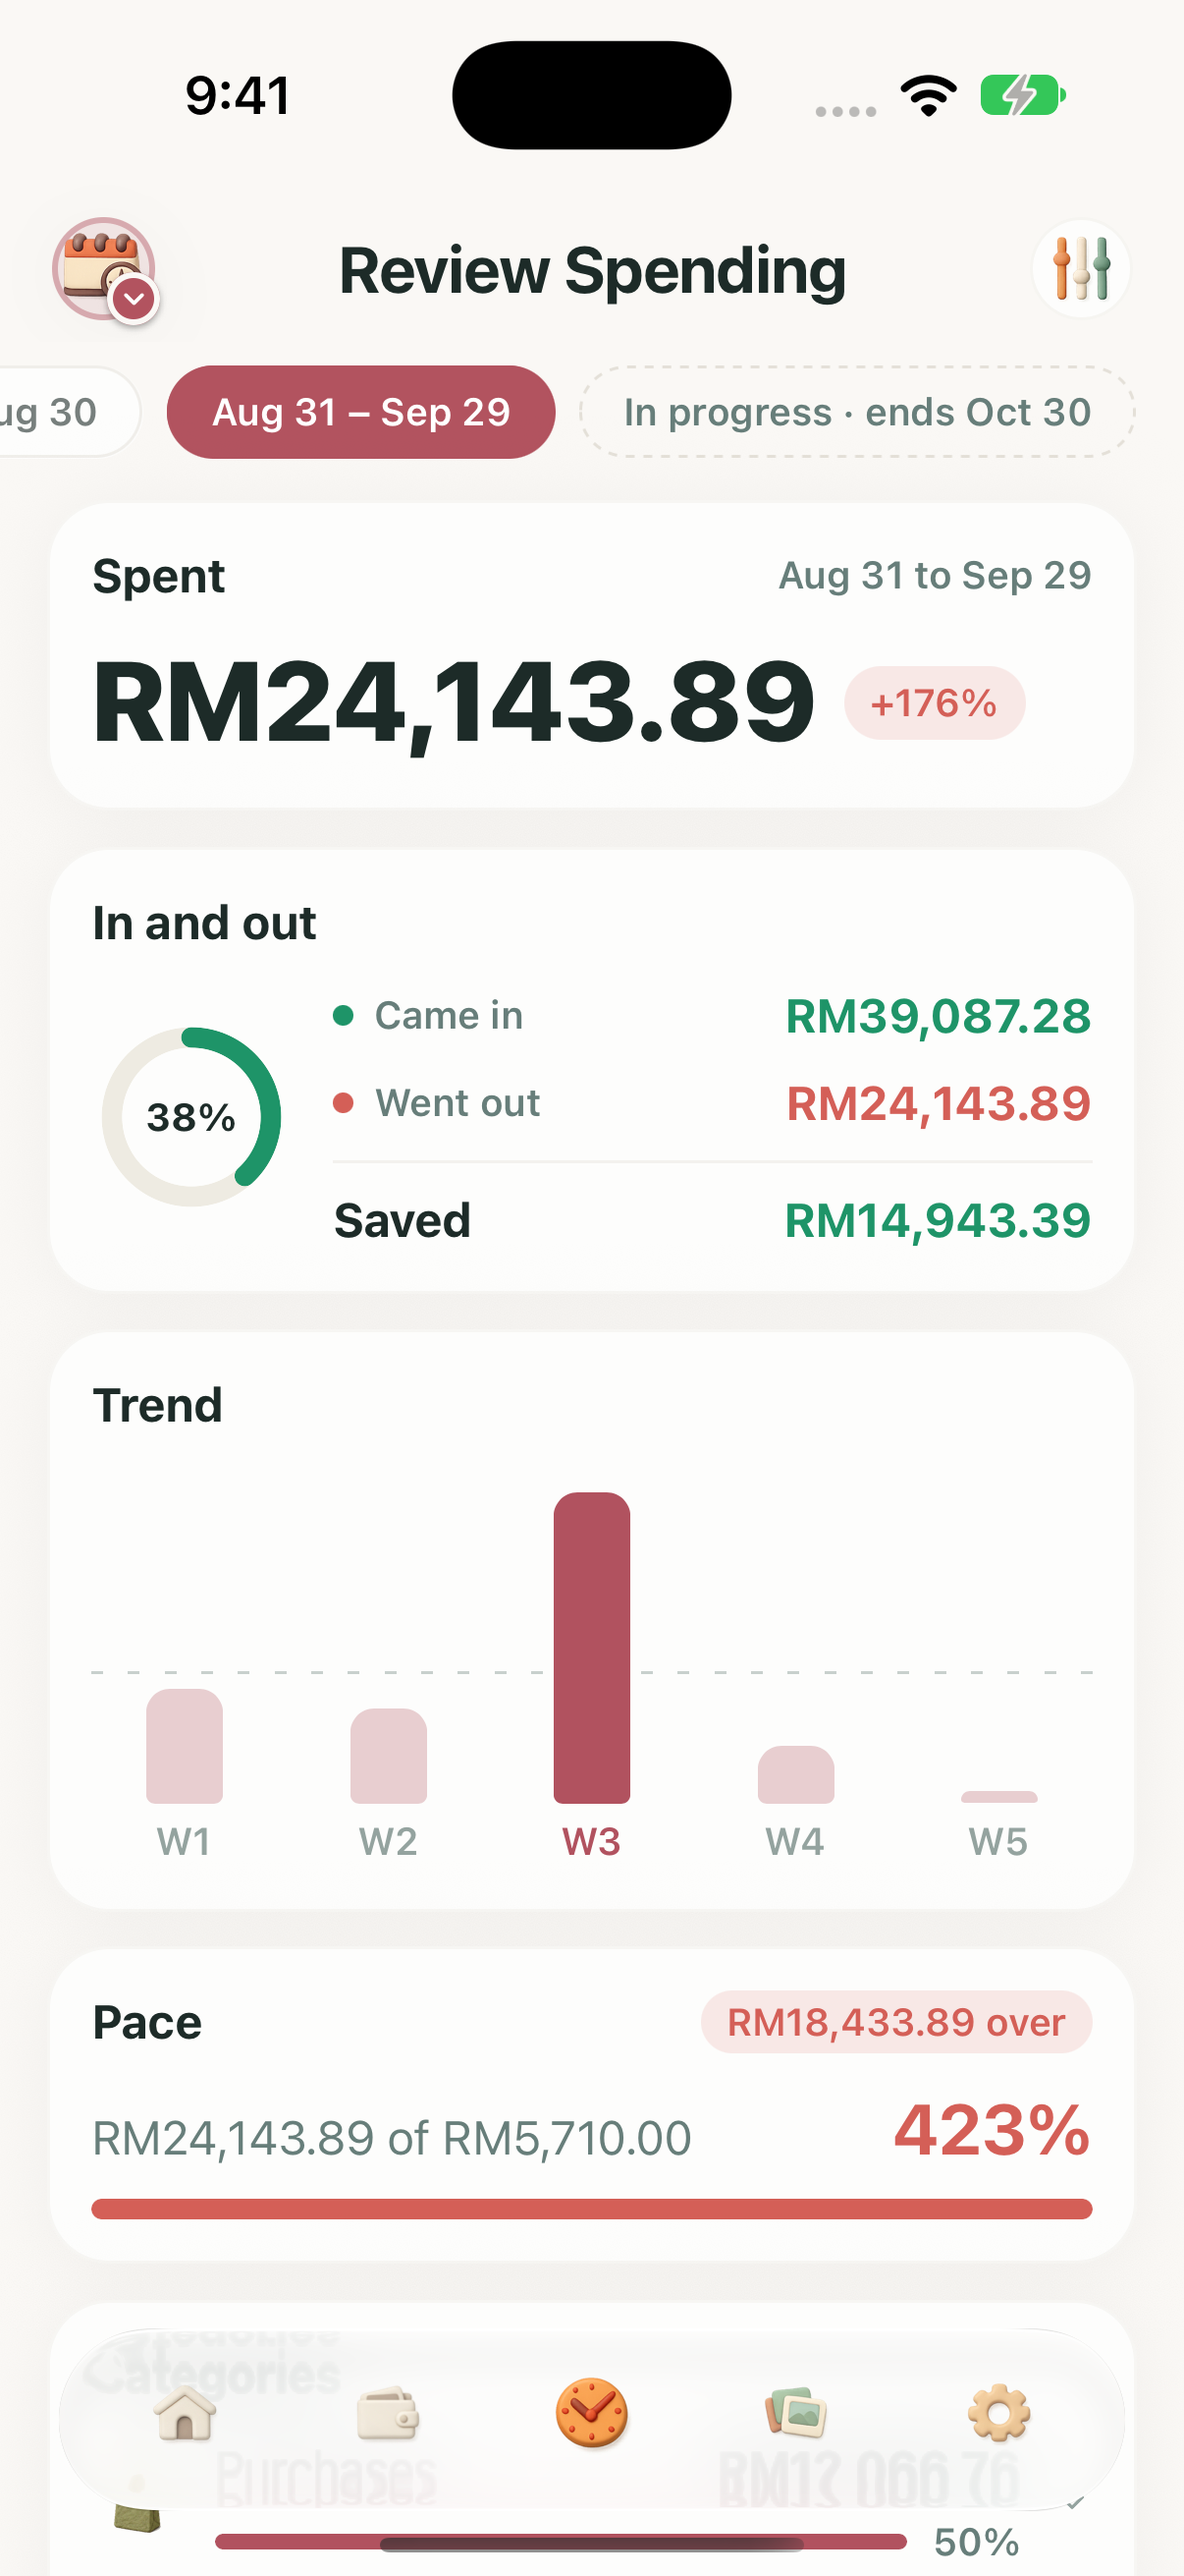
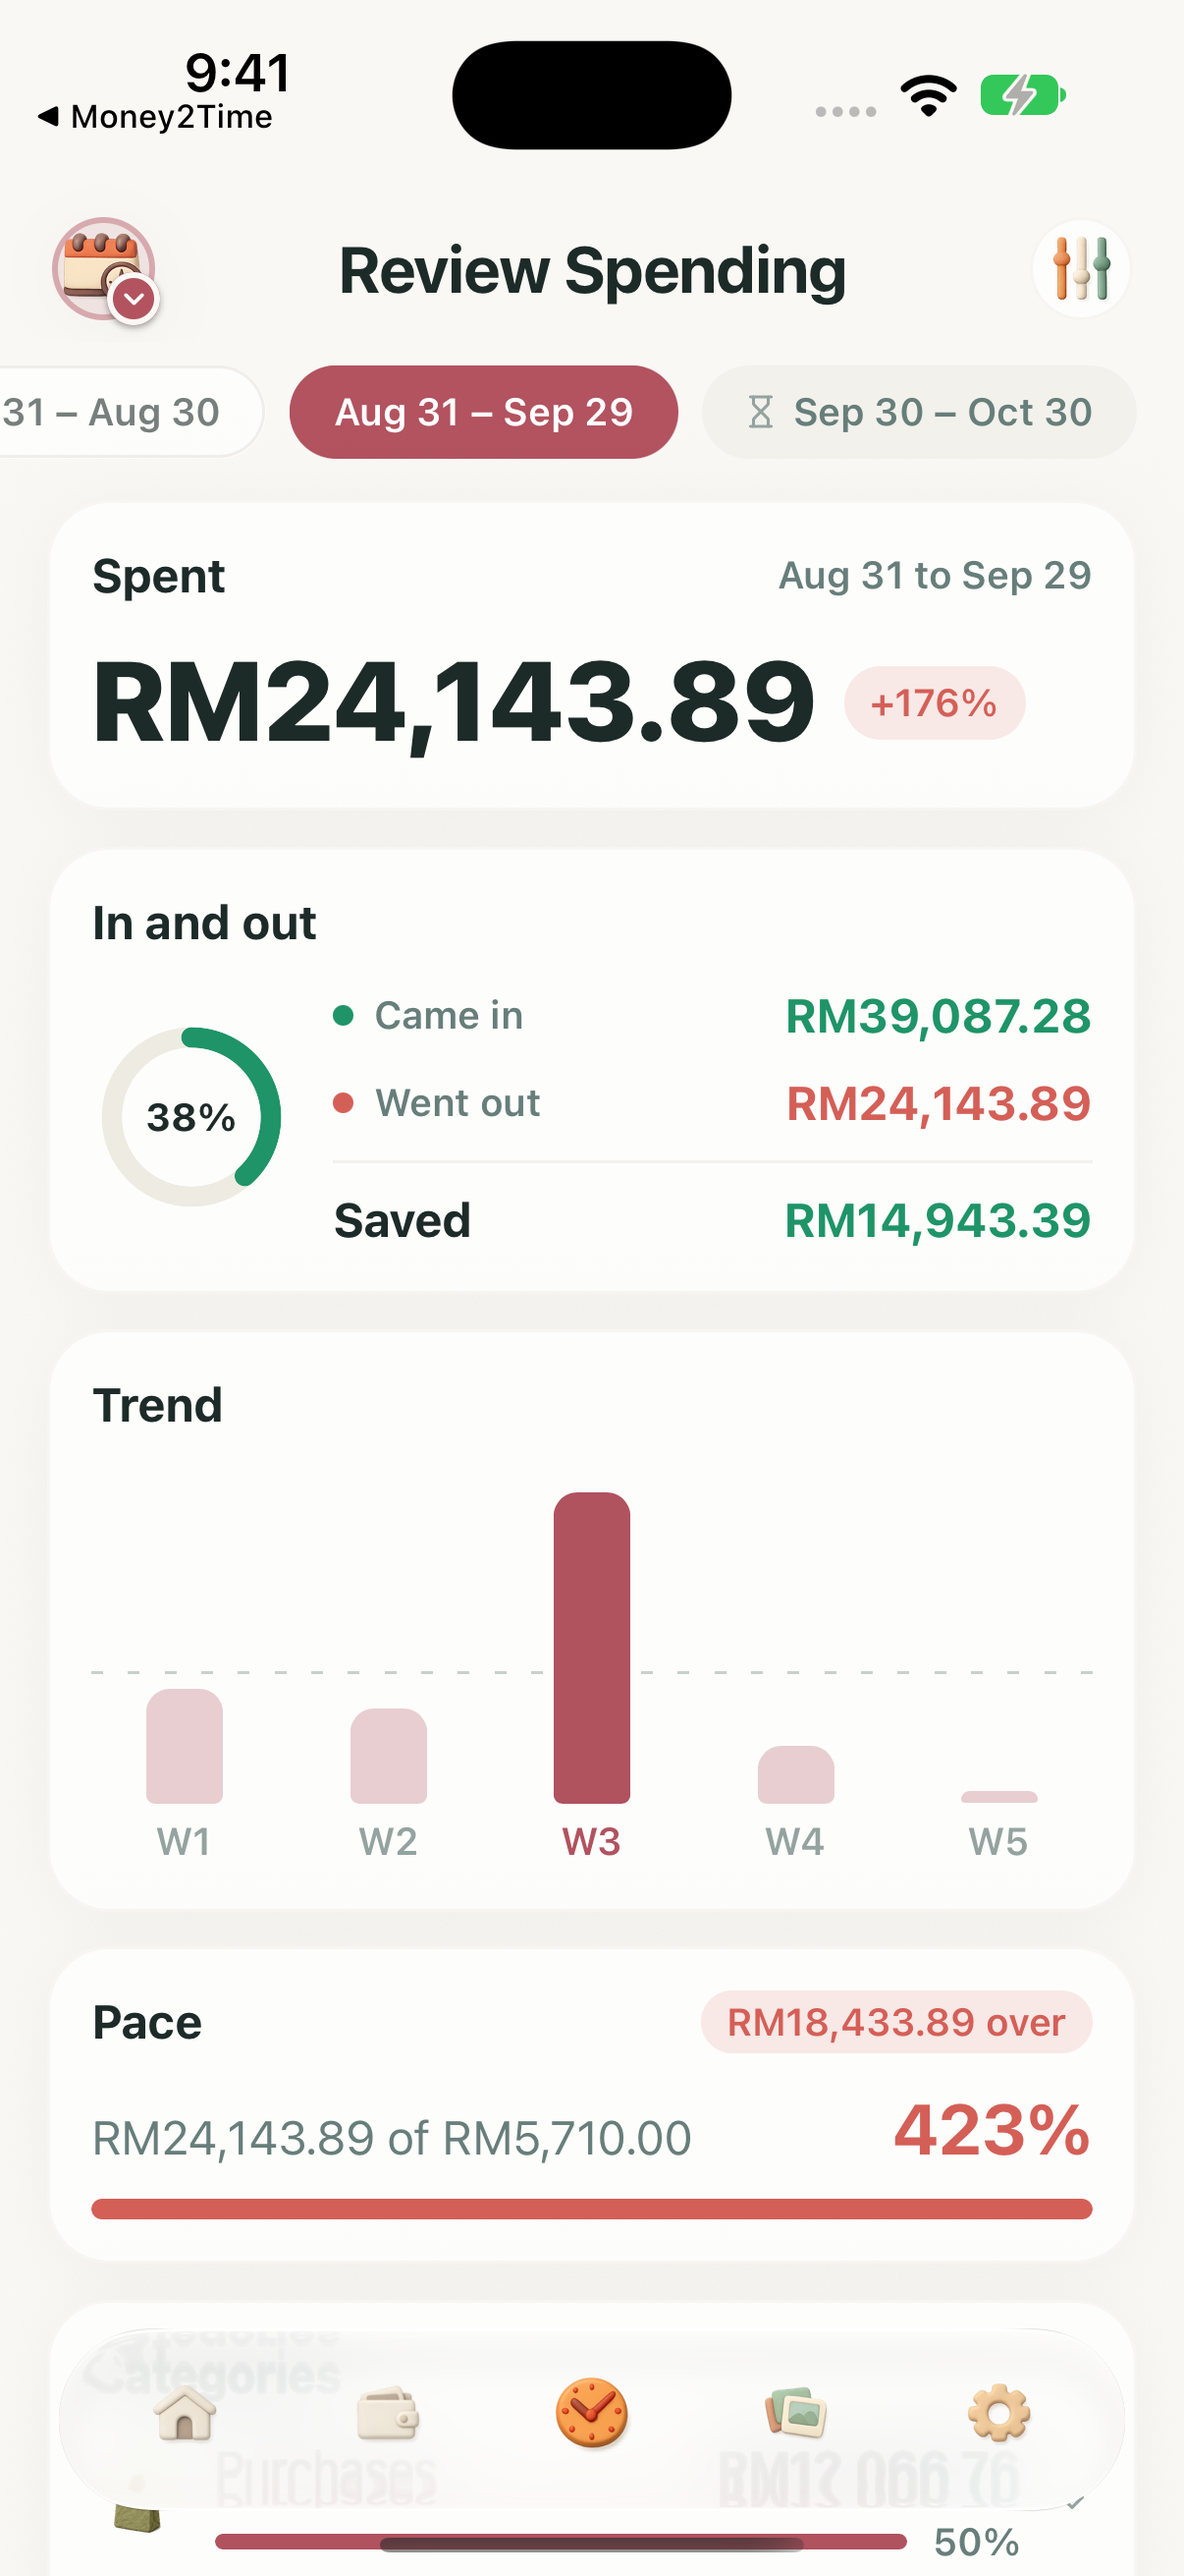
Make the in-progress period a quiet pill matching its neighbours
The running period now reads like the other pills ("Sep 30 – Oct 30",
"Oct 5", "2026") with an hourglass on a muted fill, instead of a dashed
pill with "In progress · ends …". The sentence stays as its screen
reader label.

Changed region(s): [[0.0, 0.1236, 0.7977, 0.1854], [0.0614, 0.0, 0.2454, 0.0618]]

diff --git a/apps/mobile/features/review/screens/ReviewScreen.tsx b/apps/mobile/features/review/screens/ReviewScreen.tsx
@@ -1,4 +1,11 @@
-import { CalendarDays, ChevronDown, ListChecks, Moon, TrendingDown } from 'lucide-react-native';
+import {
+  CalendarDays,
+  ChevronDown,
+  Hourglass,
+  ListChecks,
+  Moon,
+  TrendingDown,
+} from 'lucide-react-native';
 import React, {
   forwardRef,
   useCallback,
@@ -351,6 +358,7 @@ function PeriodRail({
   locale: string;
   onSelect: (period: ReviewPeriod) => void;
 }) {
+  const themeColors = useThemeColors();
   const scrollRef = useRef<ScrollView>(null);
   const offsetsRef = useRef<number[]>([]);
   const widthRef = useRef(0);
@@ -423,15 +431,18 @@ function PeriodRail({
           </Pressable>
         );
       })}
-      {/* Not selectable: its numbers are partial until it ends, which is the
-          whole reason the rail stops before it. */}
+      {/* The running period, labelled like its neighbours and marked with an
+          hourglass. Not selectable: its numbers are partial until it ends,
+          which is the whole reason the rail stops before it. */}
       <View
         accessible
         accessibilityRole="text"
-        className="h-9 items-center justify-center rounded-full border border-dashed border-border px-4"
+        accessibilityLabel={inProgressLabel(runningPeriod, locale)}
+        className="h-9 flex-row items-center justify-center gap-1.5 rounded-full bg-muted px-4"
       >
+        <Hourglass size={12} color={themeColors.textMuted} strokeWidth={2.25} />
         <Text variant="caption" tone="muted">
-          {inProgressLabel(runningPeriod, locale)}
+          {periodPillLabel(runningPeriod, locale)}
         </Text>
       </View>
     </ScrollView>

diff --git a/apps/mobile/lib/i18n/locales/th.ts b/apps/mobile/lib/i18n/locales/th.ts
@@ -2385,7 +2385,7 @@ const th = {
     week_range: '{{start}} ถึง {{end}}',
     week_tick: 'สัปดาห์ {{index}}',
     range_short: '{{start}} – {{end}}',
-    in_progress: 'กำลังดำเนินอยู่ · สิ้นสุด {{date}}',
+    in_progress: 'กำลังดำเนินอยู่, สิ้นสุด {{date}}',
     empty_title: 'ยังไม่มีอะไรให้ทบทวน',
     nothing_logged_title: 'ช่วงที่เงียบสงบ',
     nothing_logged_description: 'ไม่มีการบันทึกรายการในช่วงนี้',

diff --git a/apps/mobile/lib/i18n/locales/hi.ts b/apps/mobile/lib/i18n/locales/hi.ts
@@ -2419,7 +2419,7 @@ const hi = {
     week_range: '{{start}} से {{end}}',
     week_tick: 'स{{index}}',
     range_short: '{{start}} – {{end}}',
-    in_progress: 'जारी है · {{date}} को समाप्त',
+    in_progress: 'जारी है, {{date}} को समाप्त',
     empty_title: 'अभी समीक्षा के लिए कुछ नहीं',
     nothing_logged_title: 'एक शांत दौर',
     nothing_logged_description: 'इस अवधि में कुछ भी दर्ज नहीं हुआ।',

diff --git a/apps/mobile/features/review/lib/reviewFormat.ts b/apps/mobile/features/review/lib/reviewFormat.ts
@@ -87,7 +87,7 @@ export function periodTitle(period: ReviewPeriod, locale?: string): string {
   return period.key.slice('year:'.length);
 }
 
-/** "In progress · ends 30 Oct" — the rail's closing pill for the running period. */
+/** "In progress, ends 30 Oct" — what a screen reader says for the running period. */
 export function inProgressLabel(period: ReviewPeriod, locale?: string): string {
   return I18n.t('review.in_progress', { date: shortDayLabel(period.end, locale) });
 }

diff --git a/apps/mobile/lib/i18n/locales/vi.ts b/apps/mobile/lib/i18n/locales/vi.ts
@@ -2412,7 +2412,7 @@ const vi = {
     week_range: '{{start}} đến {{end}}',
     week_tick: 'T{{index}}',
     range_short: '{{start}} – {{end}}',
-    in_progress: 'Đang diễn ra · kết thúc {{date}}',
+    in_progress: 'Đang diễn ra, kết thúc {{date}}',
     empty_title: 'Chưa có gì để tổng kết',
     nothing_logged_title: 'Một quãng yên ắng',
     nothing_logged_description: 'Không có gì được ghi lại trong giai đoạn này.',

diff --git a/apps/mobile/lib/i18n/locales/uk.ts b/apps/mobile/lib/i18n/locales/uk.ts
@@ -2427,7 +2427,7 @@ const uk = {
     week_range: 'з {{start}} до {{end}}',
     week_tick: 'Т{{index}}',
     range_short: '{{start}} – {{end}}',
-    in_progress: 'Триває · до {{date}}',
+    in_progress: 'Триває, до {{date}}',
     empty_title: 'Ще немає що переглядати',
     nothing_logged_title: 'Тихий період',
     nothing_logged_description: 'У цьому періоді нічого не записано.',

diff --git a/apps/mobile/lib/i18n/locales/ja.ts b/apps/mobile/lib/i18n/locales/ja.ts
@@ -2416,7 +2416,7 @@ const ja = {
     week_range: '{{start}} から {{end}}',
     week_tick: '第{{index}}週',
     range_short: '{{start}} – {{end}}',
-    in_progress: '進行中・{{date}}まで',
+    in_progress: '進行中、{{date}}まで',
     empty_title: 'まだ振り返るものがありません',
     nothing_logged_title: '静かな期間',
     nothing_logged_description: 'この期間には何も記録されていません。',

diff --git a/apps/mobile/lib/i18n/locales/ru.ts b/apps/mobile/lib/i18n/locales/ru.ts
@@ -2433,7 +2433,7 @@ const ru = {
     week_range: '{{start}} по {{end}}',
     week_tick: 'Н{{index}}',
     range_short: '{{start}} – {{end}}',
-    in_progress: 'Идёт · до {{date}}',
+    in_progress: 'Идёт, до {{date}}',
     empty_title: 'Пока нечего смотреть',
     nothing_logged_title: 'Тихий период',
     nothing_logged_description: 'В этот период ничего не записано.',

diff --git a/apps/mobile/lib/i18n/locales/fr.ts b/apps/mobile/lib/i18n/locales/fr.ts
@@ -2461,7 +2461,7 @@ const fr = {
     week_range: '{{start}} au {{end}}',
     week_tick: 'S{{index}}',
     range_short: '{{start}} – {{end}}',
-    in_progress: 'En cours · se termine le {{date}}',
+    in_progress: 'En cours, se termine le {{date}}',
     empty_title: 'Rien à passer en revue pour le moment',
     nothing_logged_title: 'Une période calme',
     nothing_logged_description: "Rien n'a été enregistré sur cette période.",

diff --git a/apps/mobile/lib/i18n/locales/ko.ts b/apps/mobile/lib/i18n/locales/ko.ts
@@ -2397,7 +2397,7 @@ const ko = {
     week_range: '{{start}} ~ {{end}}',
     week_tick: '{{index}}주차',
     range_short: '{{start}} – {{end}}',
-    in_progress: '진행 중 · {{date}} 종료',
+    in_progress: '진행 중, {{date}} 종료',
     empty_title: '아직 돌아볼 내용이 없어요',
     nothing_logged_title: '조용했던 기간',
     nothing_logged_description: '이 기간에는 기록된 내용이 없어요.',

diff --git a/apps/mobile/lib/i18n/locales/it.ts b/apps/mobile/lib/i18n/locales/it.ts
@@ -2443,7 +2443,7 @@ const it = {
     week_range: 'Dal {{start}} al {{end}}',
     week_tick: 'S{{index}}',
     range_short: '{{start}} – {{end}}',
-    in_progress: 'In corso · termina il {{date}}',
+    in_progress: 'In corso, termina il {{date}}',
     empty_title: 'Ancora niente da rivedere',
     nothing_logged_title: 'Un periodo tranquillo',
     nothing_logged_description: 'In questo periodo non è stato registrato nulla.',

diff --git a/apps/mobile/lib/i18n/locales/ms.ts b/apps/mobile/lib/i18n/locales/ms.ts
@@ -2448,7 +2448,7 @@ const ms = {
     week_range: '{{start}} hingga {{end}}',
     week_tick: 'M{{index}}',
     range_short: '{{start}} – {{end}}',
-    in_progress: 'Sedang berjalan · tamat {{date}}',
+    in_progress: 'Sedang berjalan, tamat {{date}}',
     empty_title: 'Belum ada apa-apa untuk disemak',
     nothing_logged_title: 'Tempoh yang sunyi',
     nothing_logged_description: 'Tiada apa-apa direkodkan dalam tempoh ini.',
